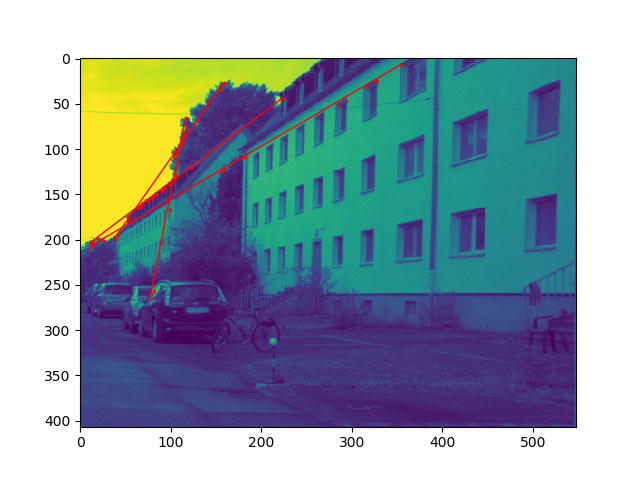
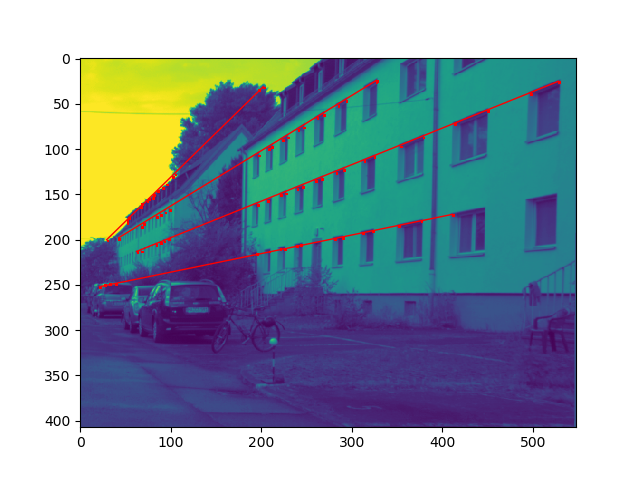
update files

diff --git a/Assignment2_LineDetection/ransac.py b/Assignment2_LineDetection/ransac.py
@@ -17,8 +17,10 @@ def detect_points(source):
 def find_line(point_1, point_2):
     x1, y1 = point_1
     x2, y2 = point_2
-
-    m = (y2 - y1) / (x2 - x1)
+    if x1 == x2:
+        m = np.inf
+    else:
+        m = (y2 - y1) / (x2 - x1)
     b = y1 - m * x1
 
     return m, b
@@ -28,7 +30,10 @@ def distance_point2line(slope, intercept, point):
     x2, y2 = point
     m1 = slope
     b1 = intercept
-    m2 = - 1 / slope
+    if slope == 0:
+        m2 = - np.inf
+    else:
+        m2 = - 1 / slope
     b2 = y2 - m2 * x2
     x1 = (b2 - b1) / (m1 - m2)
     y1 = m1 * x1 + b1
